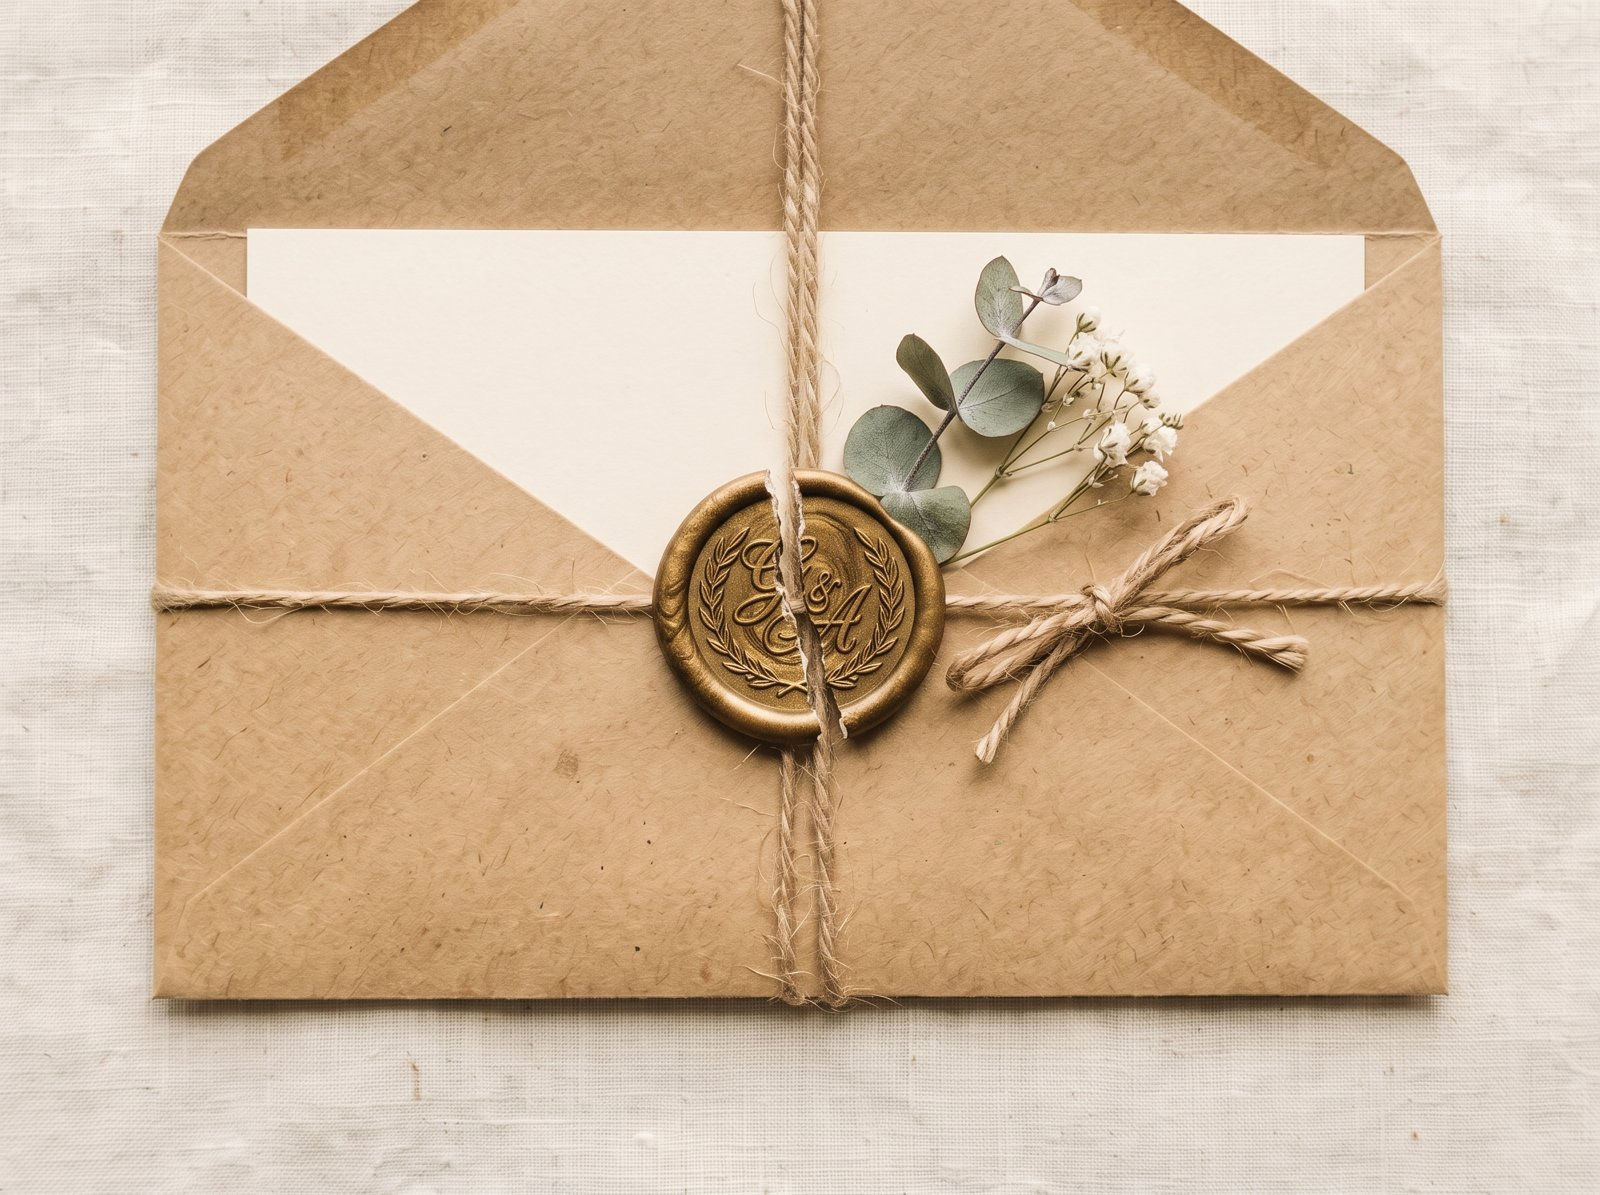
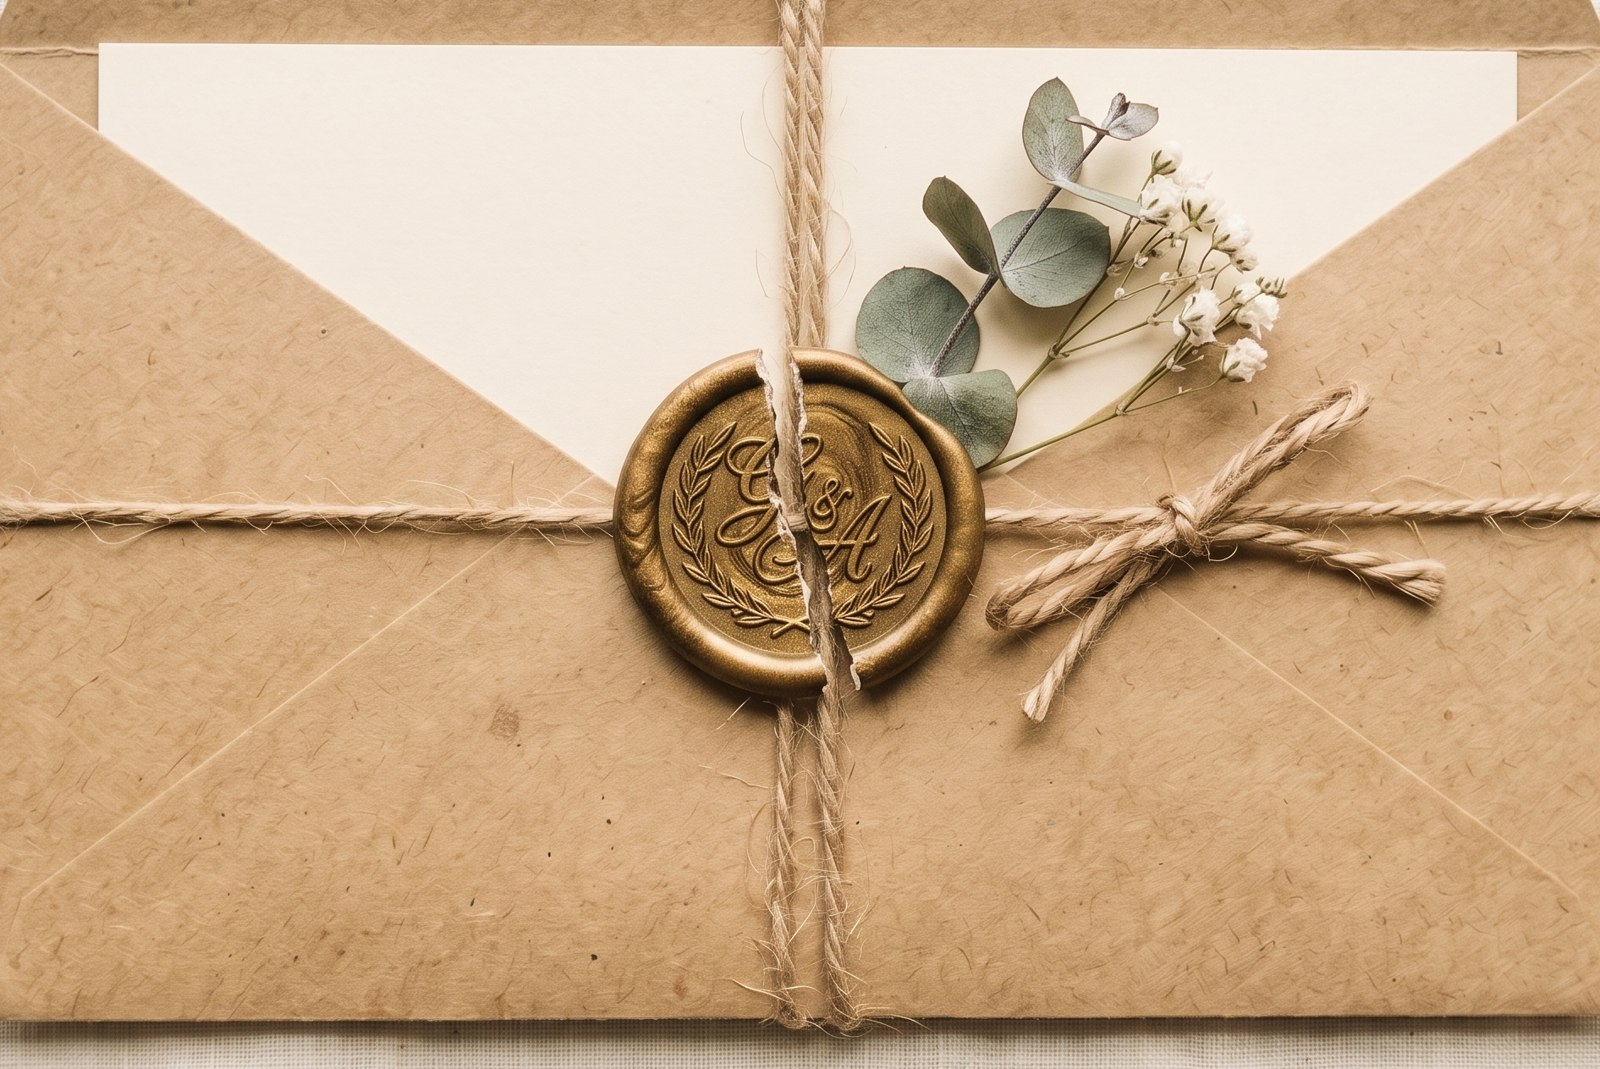
fix: align envelope flap crop to the photo's real geometry
Verified visually in real Chrome (screenshots) instead of just checking
the math, since the wipe/flap bugs so far were exactly the kind a headless
check can't see. Found the actual defect: the source photos have linen
background margin around the envelope, so a naive top-half crop put the
flap's clip-path triangle in the wrong place — cream slivers from the open
photo bled through along the fold lines at rest.

Fix: measured the envelope's true bounding box in the source photo
(pixel-scanned, not eyeballed) and re-cropped both the base and flap layers
to that box, with matching aspect ratios. The flap now sits pixel-true over
the base at rest — no seams, clean 3D lift confirmed frame-by-frame.

diff --git a/invitacion.html b/invitacion.html
@@ -49,7 +49,7 @@ body{
   background:#e3ddce;
 }
 .env-photo-wrap{
-  position:relative; width:min(560px,90vw); aspect-ratio:4/3;
+  position:relative; width:min(560px,90vw); aspect-ratio:1891/1263;
   will-change:transform, opacity;
   perspective:1500px;
 }
@@ -58,12 +58,12 @@ body{
   box-shadow:0 30px 70px -20px rgba(30,20,8,0.45);
 }
 .hinge-shadow{
-  position:absolute; left:0; right:0; top:48%; height:26%; z-index:4; pointer-events:none;
+  position:absolute; left:0; right:0; top:50%; height:28%; z-index:4; pointer-events:none;
   background:linear-gradient(to bottom, rgba(20,12,4,.55) 0%, rgba(20,12,4,0) 100%);
   opacity:0;
 }
 .flap-3d{
-  position:absolute; top:0; left:0; width:100%; height:50%;
+  position:absolute; top:0; left:0; width:100%; height:52.97%;
   clip-path:polygon(0 0,100% 0,50% 100%); z-index:5;
   transform-origin:50% 0%; transform-style:preserve-3d;
   backface-visibility:hidden;
